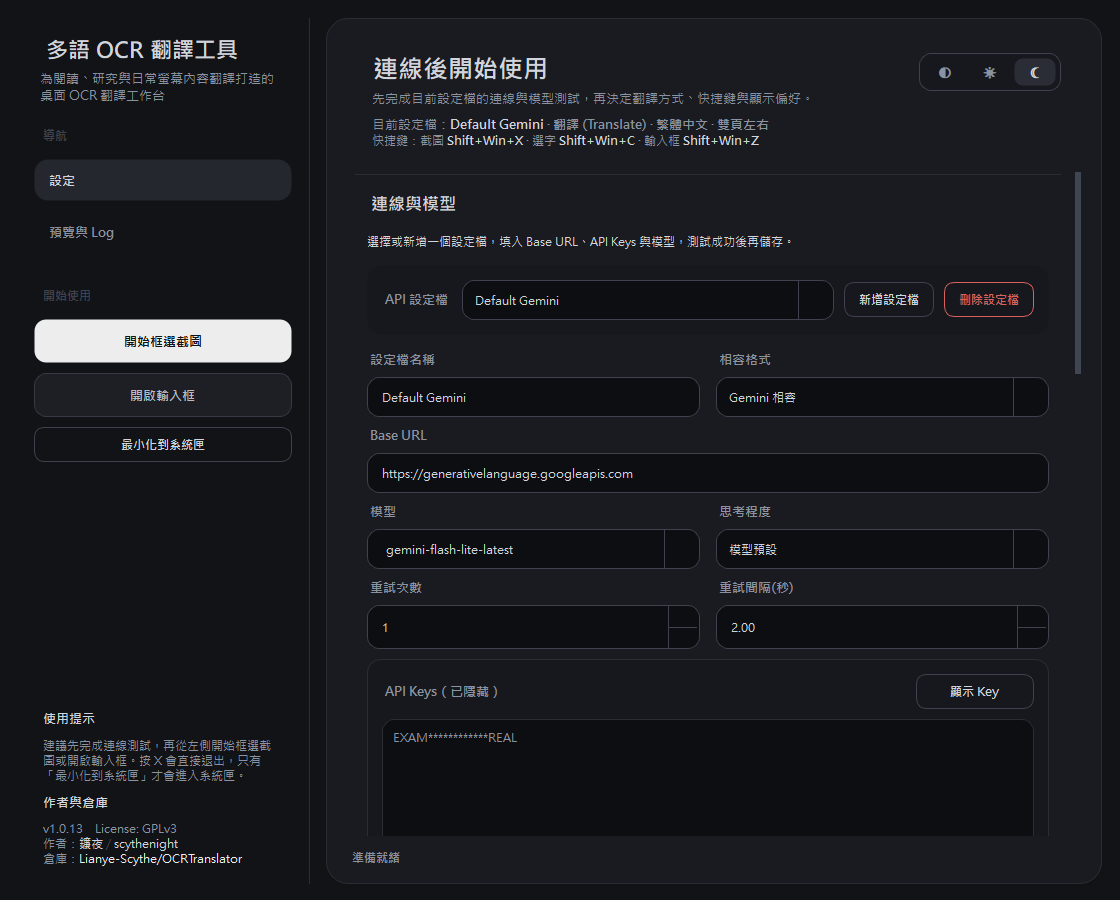
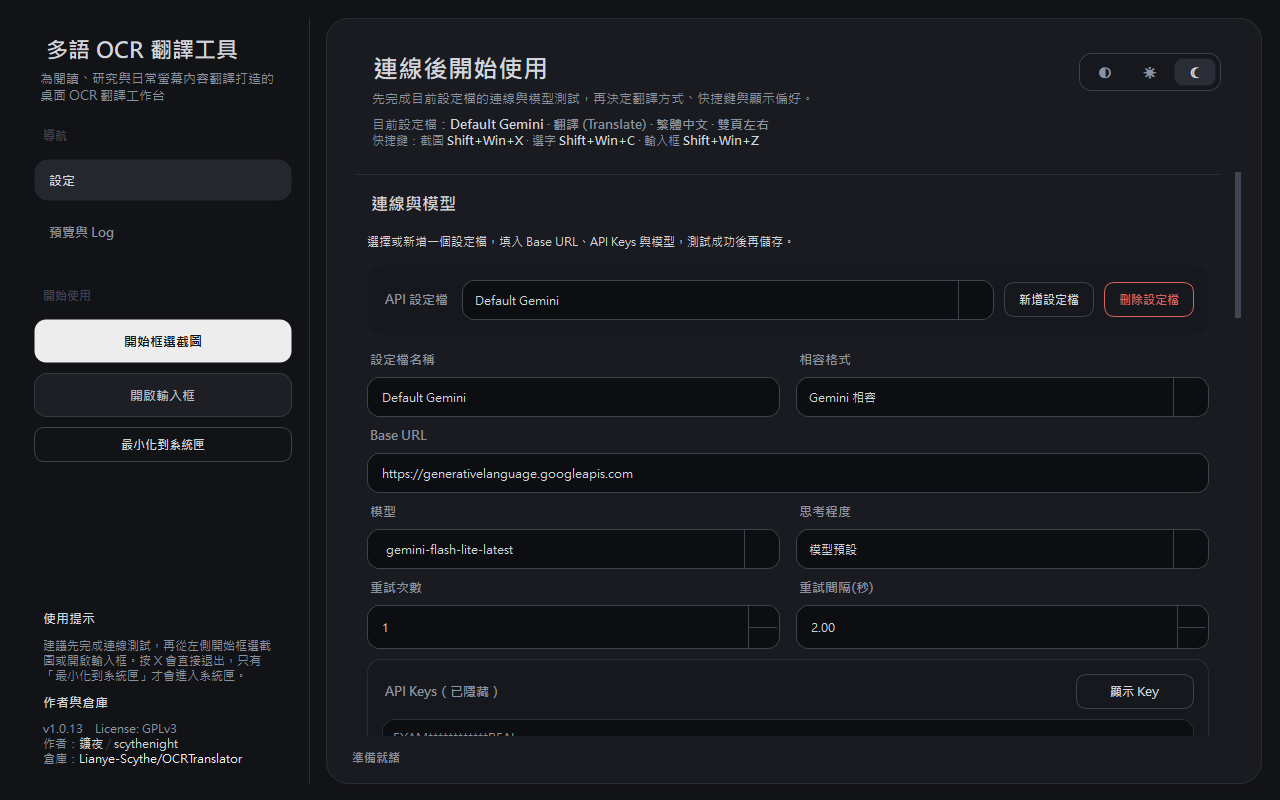
design: refresh sharing card and README with wide main-window screenshots (#23)
* design: make repository sharing preview readable at thumbnail size

* design: use wide main-window previews for README and sharing card

diff --git a/tools/generate_social_preview.py b/tools/generate_social_preview.py
@@ -1,215 +1,80 @@
 from __future__ import annotations
 
+import argparse
 from pathlib import Path
 
-from PIL import Image, ImageDraw, ImageFilter, ImageFont, ImageOps
+from PIL import Image, ImageDraw, ImageFont, ImageOps
 
 ROOT = Path(__file__).resolve().parents[1]
 SCREENSHOT_PATH = ROOT / "docs/images/screenshots/main-window-light.png"
 ICON_PATH = ROOT / "app/assets/icons/app-icon-256.png"
 OUTPUT_PATH = ROOT / "docs/images/social-preview.png"
 
-CANVAS_WIDTH = 1280
-CANVAS_HEIGHT = 640
-
-BACKGROUND_TOP = (246, 248, 252)
-BACKGROUND_BOTTOM = (236, 242, 252)
-ACCENT_PRIMARY = (37, 99, 235)
-ACCENT_SECONDARY = (79, 70, 229)
-TEXT_PRIMARY = (15, 23, 42)
-TEXT_SECONDARY = (71, 85, 105)
-TEXT_TERTIARY = (51, 65, 85)
-PANEL_FILL = (255, 255, 255, 188)
-PANEL_BORDER = (148, 163, 184, 54)
-SCREENSHOT_BORDER = (255, 255, 255, 230)
+CANVAS_SIZE = (1280, 640)
+SAFE_MARGIN = 32
+BACKGROUND = (239, 243, 249)
+TEXT_PRIMARY = (21, 25, 30)
+TEXT_SECONDARY = (66, 77, 87)
+SCREENSHOT_BOX = (480, 32, 1248, 608)
 
 
 def load_font(size: int, bold: bool = False) -> ImageFont.FreeTypeFont | ImageFont.ImageFont:
-    font_candidates = []
-    if bold:
-        font_candidates.extend(
-            [
-                "C:/Windows/Fonts/segoeuib.ttf",
-                "C:/Windows/Fonts/arialbd.ttf",
-                "C:/Windows/Fonts/calibrib.ttf",
-            ]
-        )
-    else:
-        font_candidates.extend(
-            [
-                "C:/Windows/Fonts/segoeui.ttf",
-                "C:/Windows/Fonts/arial.ttf",
-                "C:/Windows/Fonts/calibri.ttf",
-            ]
-        )
-
-    for candidate in font_candidates:
-        if Path(candidate).exists():
-            return ImageFont.truetype(candidate, size=size)
-
+    names = ("segoeuib.ttf", "arialbd.ttf") if bold else ("segoeui.ttf", "arial.ttf")
+    for directory in (Path("C:/Windows/Fonts"), Path("/mnt/c/Windows/Fonts")):
+        for name in names:
+            candidate = directory / name
+            if candidate.is_file():
+                return ImageFont.truetype(str(candidate), size=size)
     try:
-        return ImageFont.truetype("DejaVuSans.ttf", size=size)
+        return ImageFont.truetype("DejaVuSans-Bold.ttf" if bold else "DejaVuSans.ttf", size=size)
     except OSError:
-        return ImageFont.load_default()
+        return ImageFont.load_default(size=size)
 
 
-def vertical_gradient(width: int, height: int, top: tuple[int, int, int], bottom: tuple[int, int, int]) -> Image.Image:
-    image = Image.new("RGB", (width, height))
-    draw = ImageDraw.Draw(image)
-    for y in range(height):
-        ratio = y / max(height - 1, 1)
-        color = tuple(int(top[i] * (1 - ratio) + bottom[i] * ratio) for i in range(3))
-        draw.line((0, y, width, y), fill=color)
-    return image
+def draw_text(draw: ImageDraw.ImageDraw, position: tuple[int, int], text: str, size: int,
+              fill: tuple[int, int, int], *, bold: bool = False) -> None:
+    font = load_font(size, bold=bold)
+    bounds = draw.textbbox(position, text, font=font)
+    if bounds[2] > CANVAS_SIZE[0] - SAFE_MARGIN or bounds[3] > CANVAS_SIZE[1] - SAFE_MARGIN:
+        raise ValueError(f"Text exceeds the social-preview safe area: {text}")
+    draw.text(position, text, font=font, fill=fill)
 
 
-def add_blurred_blob(base: Image.Image, bbox: tuple[int, int, int, int], color: tuple[int, int, int, int], blur_radius: int) -> None:
-    overlay = Image.new("RGBA", base.size, (0, 0, 0, 0))
-    draw = ImageDraw.Draw(overlay)
-    draw.ellipse(bbox, fill=color)
-    overlay = overlay.filter(ImageFilter.GaussianBlur(blur_radius))
-    base.alpha_composite(overlay)
+def render_preview() -> Image.Image:
+    canvas = Image.new("RGB", CANVAS_SIZE, BACKGROUND)
+    draw = ImageDraw.Draw(canvas)
+    with Image.open(ICON_PATH) as icon:
+        icon = icon.convert("RGBA").resize((76, 76), Image.Resampling.LANCZOS)
+        canvas.paste(icon, (SAFE_MARGIN, 104), icon)
 
+    draw_text(draw, (SAFE_MARGIN, 214), "OCRTranslator", 62, TEXT_PRIMARY, bold=True)
+    draw_text(draw, (SAFE_MARGIN, 309), "Portable OCR & AI", 32, TEXT_SECONDARY)
+    draw_text(draw, (SAFE_MARGIN, 352), "Translation for Windows", 32, TEXT_SECONDARY)
+    draw_text(draw, (SAFE_MARGIN, 458), "Screenshots / Selected Text", 24, TEXT_SECONDARY)
+    draw_text(draw, (SAFE_MARGIN, 493), "Manual Input", 24, TEXT_SECONDARY)
 
-def rounded_image(image: Image.Image, radius: int) -> Image.Image:
-    mask = Image.new("L", image.size, 0)
-    ImageDraw.Draw(mask).rounded_rectangle((0, 0, image.size[0], image.size[1]), radius=radius, fill=255)
-    rounded = image.copy()
-    rounded.putalpha(mask)
-    return rounded
-
-
-def fit_within(image: Image.Image, max_width: int, max_height: int) -> Image.Image:
-    fitted = image.copy()
-    fitted.thumbnail((max_width, max_height), Image.Resampling.LANCZOS)
-    return fitted
-
-
-def text_size(draw: ImageDraw.ImageDraw, text: str, font: ImageFont.ImageFont) -> tuple[int, int]:
-    left, top, right, bottom = draw.textbbox((0, 0), text, font=font)
-    return right - left, bottom - top
-
-
-def fit_font(draw: ImageDraw.ImageDraw, text: str, max_width: int, start_size: int, min_size: int, bold: bool = False) -> ImageFont.ImageFont:
-    for size in range(start_size, min_size - 1, -2):
-        font = load_font(size, bold=bold)
-        width, _ = text_size(draw, text, font)
-        if width <= max_width:
-            return font
-    return load_font(min_size, bold=bold)
-
-
-def wrap_text(draw: ImageDraw.ImageDraw, text: str, font: ImageFont.ImageFont, max_width: int) -> list[str]:
-    words = text.split()
-    if not words:
-        return [""]
-
-    lines: list[str] = []
-    current = words[0]
-    for word in words[1:]:
-        candidate = f"{current} {word}"
-        width, _ = text_size(draw, candidate, font)
-        if width <= max_width:
-            current = candidate
-        else:
-            lines.append(current)
-            current = word
-    lines.append(current)
-    return lines
-
-
-def draw_wrapped_text(draw: ImageDraw.ImageDraw, position: tuple[int, int], text: str, font: ImageFont.ImageFont, fill: tuple[int, int, int], max_width: int, line_spacing: int) -> int:
-    x, y = position
-    lines = wrap_text(draw, text, font, max_width)
-    _, line_height = text_size(draw, "Ag", font)
-    draw.multiline_text((x, y), "\n".join(lines), font=font, fill=fill, spacing=line_spacing)
-    return len(lines) * line_height + max(len(lines) - 1, 0) * line_spacing
-
-
-def draw_shadow(base: Image.Image, bbox: tuple[int, int, int, int], radius: int, blur_radius: int, color: tuple[int, int, int, int]) -> None:
-    overlay = Image.new("RGBA", base.size, (0, 0, 0, 0))
-    draw = ImageDraw.Draw(overlay)
-    draw.rounded_rectangle(bbox, radius=radius, fill=color)
-    overlay = overlay.filter(ImageFilter.GaussianBlur(blur_radius))
-    base.alpha_composite(overlay)
+    # Preserve the complete current main window and its aspect ratio.
+    with Image.open(SCREENSHOT_PATH) as screenshot:
+        left, top, right, bottom = SCREENSHOT_BOX
+        fitted = ImageOps.contain(screenshot.convert("RGB"), (right - left, bottom - top), Image.Resampling.LANCZOS)
+        x = left + (right - left - fitted.width) // 2
+        y = top + (bottom - top - fitted.height) // 2
+        canvas.paste(fitted, (x, y))
+    return canvas
 
 
 def main() -> None:
-    OUTPUT_PATH.parent.mkdir(parents=True, exist_ok=True)
-
-    background = vertical_gradient(CANVAS_WIDTH, CANVAS_HEIGHT, BACKGROUND_TOP, BACKGROUND_BOTTOM).convert("RGBA")
-    add_blurred_blob(background, (-60, -20, 420, 400), (*ACCENT_SECONDARY, 48), 55)
-    add_blurred_blob(background, (860, -80, 1360, 360), (*ACCENT_PRIMARY, 40), 65)
-    add_blurred_blob(background, (700, 360, 1240, 760), (*ACCENT_SECONDARY, 24), 72)
-
-    screenshot = Image.open(SCREENSHOT_PATH).convert("RGBA")
-    icon = Image.open(ICON_PATH).convert("RGBA")
-
-    screenshot = screenshot.crop((0, 34, screenshot.size[0], screenshot.size[1]))
-
-    panel_box = (54, 56, 456, 584)
-    draw_shadow(background, (panel_box[0] + 4, panel_box[1] + 12, panel_box[2] + 4, panel_box[3] + 12), 30, 20, (15, 23, 42, 24))
-    panel_overlay = Image.new("RGBA", background.size, (0, 0, 0, 0))
-    panel_draw = ImageDraw.Draw(panel_overlay)
-    panel_draw.rounded_rectangle(panel_box, radius=30, fill=PANEL_FILL, outline=PANEL_BORDER, width=1)
-    background.alpha_composite(panel_overlay)
-
-    draw = ImageDraw.Draw(background)
-    text_max_width = panel_box[2] - panel_box[0] - 72
-
-    title_font = fit_font(draw, "OCRTranslator", text_max_width, start_size=54, min_size=40, bold=True)
-    subtitle_font = load_font(22)
-    meta_font = load_font(20)
-
-    icon_size = 84
-    icon_render = icon.resize((icon_size, icon_size), Image.Resampling.LANCZOS)
-    draw_shadow(background, (90, 92, 90 + icon_size, 92 + icon_size), 22, 14, (37, 99, 235, 30))
-    background.alpha_composite(icon_render, (90, 92))
-
-    draw.text((90, 204), "OCRTranslator", font=title_font, fill=TEXT_PRIMARY)
-    subtitle_height = draw_wrapped_text(
-        draw,
-        (92, 286),
-        "Portable Windows OCR / AI desktop tool for screenshot, selected-text, and manual-input workflows.",
-        subtitle_font,
-        TEXT_SECONDARY,
-        max_width=text_max_width,
-        line_spacing=8,
-    )
-
-    meta_y = 286 + subtitle_height + 38
-    draw_wrapped_text(
-        draw,
-        (92, meta_y),
-        "Screen capture  •  Selected text  •  Manual input",
-        meta_font,
-        TEXT_SECONDARY,
-        max_width=text_max_width,
-        line_spacing=8,
-    )
-    draw.text((92, panel_box[3] - 52), "Windows  •  PySide6  •  OCR  •  AI", font=meta_font, fill=TEXT_TERTIARY)
-
-    frame_box = (470, 58, 1232, 582)
-    draw_shadow(background, (frame_box[0] + 14, frame_box[1] + 22, frame_box[2] + 14, frame_box[3] + 22), 32, 24, (15, 23, 42, 38))
-
-    frame_overlay = Image.new("RGBA", background.size, (0, 0, 0, 0))
-    frame_draw = ImageDraw.Draw(frame_overlay)
-    frame_draw.rounded_rectangle(frame_box, radius=30, fill=(255, 255, 255, 194), outline=(255, 255, 255, 224), width=1)
-    background.alpha_composite(frame_overlay)
-
-    content_padding = 16
-    content_width = frame_box[2] - frame_box[0] - content_padding * 2
-    content_height = frame_box[3] - frame_box[1] - content_padding * 2
-    fitted_screenshot = fit_within(screenshot, content_width, content_height)
-    fitted_screenshot = ImageOps.expand(fitted_screenshot, border=2, fill=SCREENSHOT_BORDER)
-    rounded_screenshot = rounded_image(fitted_screenshot, radius=26)
-
-    screenshot_x = frame_box[0] + (frame_box[2] - frame_box[0] - rounded_screenshot.size[0]) // 2
-    screenshot_y = frame_box[1] + (frame_box[3] - frame_box[1] - rounded_screenshot.size[1]) // 2
-    background.alpha_composite(rounded_screenshot, (screenshot_x, screenshot_y))
-
-    background.convert("RGB").save(OUTPUT_PATH, format="PNG", optimize=True)
-    print(f"Created {OUTPUT_PATH}")
+    parser = argparse.ArgumentParser(description="Render the GitHub sharing image from real application assets.")
+    parser.add_argument("--output", type=Path, default=OUTPUT_PATH)
+    parser.add_argument("--thumbnail", type=Path, help="Also write a 320x160 review image.")
+    args = parser.parse_args()
+    preview = render_preview()
+    args.output.parent.mkdir(parents=True, exist_ok=True)
+    preview.save(args.output, format="PNG", optimize=True)
+    if args.thumbnail:
+        args.thumbnail.parent.mkdir(parents=True, exist_ok=True)
+        preview.resize((320, 160), Image.Resampling.LANCZOS).save(args.thumbnail, format="PNG", optimize=True)
+    print(f"Created {args.output}")
 
 
 if __name__ == "__main__":

diff --git a/tests/test_social_preview.py b/tests/test_social_preview.py
@@ -1,0 +1,45 @@
+import tempfile
+import unittest
+from pathlib import Path
+from unittest.mock import patch
+
+from PIL import Image, ImageChops, ImageDraw
+
+from tools import generate_social_preview as preview
+
+
+class SocialPreviewTests(unittest.TestCase):
+    def test_render_has_safe_margins_and_complete_main_window(self):
+        image = preview.render_preview()
+        self.assertEqual(image.size, (1280, 640))
+        self.assertEqual(image.mode, "RGB")
+        background = Image.new("RGB", image.size, preview.BACKGROUND)
+        bounds = ImageChops.difference(image, background).getbbox()
+        self.assertGreaterEqual(bounds[0], preview.SAFE_MARGIN)
+        self.assertGreaterEqual(bounds[1], preview.SAFE_MARGIN)
+        self.assertLessEqual(bounds[2], image.width - preview.SAFE_MARGIN)
+        self.assertLessEqual(bounds[3], image.height - preview.SAFE_MARGIN)
+        self.assertEqual(preview.SCREENSHOT_PATH.name, "main-window-light.png")
+        self.assertIsNotNone(ImageChops.difference(
+            image.crop(preview.SCREENSHOT_BOX), background.crop(preview.SCREENSHOT_BOX),
+        ).getbbox())
+
+    def test_text_overflow_fails_instead_of_silently_clipping(self):
+        image = Image.new("RGB", preview.CANVAS_SIZE)
+        with self.assertRaises(ValueError):
+            preview.draw_text(ImageDraw.Draw(image), (32, 32), "OCRTranslator" * 20, 82, (0, 0, 0))
+
+    def test_cli_writes_full_size_and_review_thumbnail(self):
+        with tempfile.TemporaryDirectory() as directory:
+            output = Path(directory) / "full" / "social.png"
+            thumbnail = Path(directory) / "review" / "small.png"
+            with patch("sys.argv", ["preview", "--output", str(output), "--thumbnail", str(thumbnail)]):
+                preview.main()
+            for file, size in ((output, (1280, 640)), (thumbnail, (320, 160))):
+                with Image.open(file) as image:
+                    self.assertEqual(image.size, size)
+                self.assertLess(file.stat().st_size, 1_000_000)
+
+
+if __name__ == "__main__":
+    unittest.main()

diff --git a/docs/development.en.md b/docs/development.en.md
@@ -117,3 +117,9 @@ Current automated checks focus on:
 To update dependencies, adjust `constraints.txt` and minimum requirements when needed. Install and run `python -m pip check` and tests on both Windows and WSL; packaging changes must also pass Windows CI packaging. Do not overwrite the cross-platform constraints with a single environment's complete `pip freeze`, or update only one local virtual environment.
 
 Constraints pin installed package versions, not pip, Python patches, isolated build tools, or artifact hashes. They do not guarantee byte-identical executables and do not change existing release ZIPs.
+
+## Maintaining the sharing image
+
+Run `python tools/generate_social_preview.py --thumbnail build/social-preview-320.png` to update `docs/images/social-preview.png` and produce a 320 × 160 review image. The generator displays the complete wide main-window screenshot at its original aspect ratio. Recheck text and safe margins when changing source assets; do not crop or stretch the interface.
+
+After committing the image, upload the new PNG under repository Settings → Social preview → Edit. GitHub does not automatically use a repository image as its sharing image. Sharing platforms may also cache the previous preview.

diff --git a/docs/development.md b/docs/development.md
@@ -117,3 +117,9 @@ python -m compileall app tests launcher.pyw
 更新依賴時，調整 `constraints.txt`，必要時同步最低版本範圍，並在 Windows 與 WSL 分別安裝、執行 `python -m pip check` 和測試；涉及打包依賴時確認 Windows CI 打包成功。不要將單一環境的完整 `pip freeze` 直接覆蓋跨平台約束檔，也不要只更新其中一台的虛擬環境。
 
 約束檔固定套件版本，但不固定 pip、Python 修補版、隔離建置工具或下載檔案雜湊，不保證逐位元組相同的 exe。已發布 ZIP 不會因更新原始碼的約束檔而改變。
+
+## 分享圖維護
+
+執行 `python tools/generate_social_preview.py --thumbnail build/social-preview-320.png`，更新 `docs/images/social-preview.png` 並產生 320 × 160 檢查圖。產圖使用倉庫內的寬版主視窗截圖，等比例呈現完整介面；更換來源素材時需重新檢查文字與安全邊界，不要裁切或拉伸介面。
+
+圖片提交到 GitHub 後，仍須在倉庫 Settings → Social preview → Edit 上傳新版 PNG；GitHub 不會自動把倉庫內圖片設為分享圖。各分享平台也可能保留舊預覽快取。

diff --git a/docs/development.zh-CN.md b/docs/development.zh-CN.md
@@ -117,3 +117,9 @@ python -m compileall app tests launcher.pyw
 更新依赖时，调整 `constraints.txt`，必要时同步最低版本范围，并在 Windows 和 WSL 分别安装、运行 `python -m pip check` 和测试；涉及打包依赖时确认 Windows CI 打包成功。不要用单一环境的完整 `pip freeze` 直接覆盖跨平台约束文件，也不要只更新其中一台的虚拟环境。
 
 约束文件固定包版本，但不固定 pip、Python 补丁版、隔离构建工具或下载文件哈希，不保证逐字节相同的 exe，也不会改变已经发布的 ZIP。
+
+## 分享图维护
+
+运行 `python tools/generate_social_preview.py --thumbnail build/social-preview-320.png`，更新 `docs/images/social-preview.png` 并生成 320 × 160 检查图。产图使用仓库内的宽版主窗口截图，按原比例展示完整界面；更换素材时需要重新检查文字和安全边距，不要裁剪或拉伸界面。
+
+图片提交到 GitHub 后，仍需在仓库 Settings → Social preview → Edit 上传新版 PNG；GitHub 不会自动把仓库内图片设为分享图。各分享平台也可能保留旧预览缓存。
